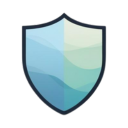
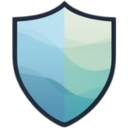
v1.5.0 Release: Image management improvements
- Added image reset functionality in manager
- Implemented better default image handling
- Updated blocked page messaging
- Improved UI for image upload section
- Standardized styling across Chrome/Firefox
- Updated icon configuration for Firefox

diff --git a/chrome/manager.js b/chrome/manager.js
@@ -1,12 +1,16 @@
 // Focus Guard Manager Script
 // Handles the full management interface
 
+// Default image path
+const DEFAULT_IMAGE_PATH = "images/default-blocked.png"
+
 // DOM elements
 const domainInput = document.getElementById("domainInput")
 const addDomainBtn = document.getElementById("addDomain")
 const domainList = document.getElementById("domainList")
 const imageUpload = document.getElementById("imageUpload")
 const imagePreview = document.getElementById("imagePreview")
+const resetImageBtn = document.getElementById("resetImage")
 
 // Check if chrome is defined, if not, mock it for development/testing
 if (typeof chrome === "undefined") {
@@ -42,6 +46,13 @@ if (typeof chrome === "undefined") {
           // Mock implementation for setting data in local storage
           if (items.blockedImage) {
             localStorage.setItem("blockedImage", items.blockedImage)
+          }
+          callback()
+        },
+        remove: (keys, callback) => {
+          // Mock implementation for removing data from local storage
+          if (keys.includes("blockedImage")) {
+            localStorage.removeItem("blockedImage")
           }
           callback()
         },
@@ -87,6 +98,8 @@ function loadImage() {
   chrome.storage.local.get(["blockedImage"], (result) => {
     if (result.blockedImage) {
       imagePreview.src = result.blockedImage
+    } else {
+      imagePreview.src = DEFAULT_IMAGE_PATH
     }
   })
 }
@@ -149,6 +162,15 @@ imageUpload.addEventListener("change", (e) => {
     }
     reader.readAsDataURL(file)
   }
+})
+
+// Reset image to default
+resetImageBtn.addEventListener("click", () => {
+  imagePreview.src = DEFAULT_IMAGE_PATH
+  chrome.storage.local.remove(["blockedImage"], () => {
+    // Optional: Show feedback that image was reset
+    console.log("Image reset to default")
+  })
 })
 
 // Simple image compression

diff --git a/firefox/manager.js b/firefox/manager.js
@@ -4,12 +4,16 @@
 // Declare browser
 const browser = window.browser || window.chrome
 
+// Default image path
+const DEFAULT_IMAGE_PATH = "images/default-blocked.png"
+
 // DOM elements
 const domainInput = document.getElementById("domainInput")
 const addDomainBtn = document.getElementById("addDomain")
 const domainList = document.getElementById("domainList")
 const imageUpload = document.getElementById("imageUpload")
 const imagePreview = document.getElementById("imagePreview")
+const resetImageBtn = document.getElementById("resetImage")
 
 // Load domains
 function loadDomains() {
@@ -48,6 +52,8 @@ function loadImage() {
   browser.storage.local.get(["blockedImage"], (result) => {
     if (result.blockedImage) {
       imagePreview.src = result.blockedImage
+    } else {
+      imagePreview.src = DEFAULT_IMAGE_PATH
     }
   })
 }
@@ -110,6 +116,15 @@ imageUpload.addEventListener("change", (e) => {
     }
     reader.readAsDataURL(file)
   }
+})
+
+// Reset image to default
+resetImageBtn.addEventListener("click", () => {
+  imagePreview.src = DEFAULT_IMAGE_PATH
+  browser.storage.local.remove(["blockedImage"], () => {
+    // Optional: Show feedback that image was reset
+    console.log("Image reset to default")
+  })
 })
 
 // Simple image compression

diff --git a/chrome/styles.css b/chrome/styles.css
@@ -265,21 +265,54 @@ button:active {
   gap: 16px;
 }
 
+.image-actions {
+  display: flex;
+  gap: 12px;
+  justify-content: center;
+  flex-wrap: wrap;
+}
+
 .image-upload-label {
   display: inline-block;
   padding: 10px 16px;
-  background: var(--primary);
-  color: white;
   border-radius: 6px;
   cursor: pointer;
   font-weight: 500;
   transition: background-color 0.2s;
   text-align: center;
-  max-width: 200px;
+  min-width: 160px;
 }
 
-.image-upload-label:hover {
+.image-upload-label.primary-action {
+  background: var(--primary);
+  color: white;
+}
+
+.image-upload-label.primary-action:hover {
   background: var(--primary-hover);
+}
+
+.image-upload-label.secondary-action {
+  background: transparent;
+  color: var(--text);
+  border: 1px solid var(--border);
+}
+
+.image-upload-label.secondary-action:hover {
+  background: var(--background-alt);
+}
+
+.reset-image-btn {
+  background: transparent;
+  color: var(--text);
+  border: 1px solid var(--border);
+  min-width: 160px;
+  font-weight: 500;
+  padding: 10px 16px;
+}
+
+.reset-image-btn:hover {
+  background: var(--background-alt);
 }
 
 #imageUpload {

diff --git a/firefox/styles.css b/firefox/styles.css
@@ -265,21 +265,54 @@ button:active {
   gap: 16px;
 }
 
+.image-actions {
+  display: flex;
+  gap: 12px;
+  justify-content: center;
+  flex-wrap: wrap;
+}
+
 .image-upload-label {
   display: inline-block;
   padding: 10px 16px;
-  background: var(--primary);
-  color: white;
   border-radius: 6px;
   cursor: pointer;
   font-weight: 500;
   transition: background-color 0.2s;
   text-align: center;
-  max-width: 200px;
+  min-width: 160px;
 }
 
-.image-upload-label:hover {
+.image-upload-label.primary-action {
+  background: var(--primary);
+  color: white;
+}
+
+.image-upload-label.primary-action:hover {
   background: var(--primary-hover);
+}
+
+.image-upload-label.secondary-action {
+  background: transparent;
+  color: var(--text);
+  border: 1px solid var(--border);
+}
+
+.image-upload-label.secondary-action:hover {
+  background: var(--background-alt);
+}
+
+.reset-image-btn {
+  background: transparent;
+  color: var(--text);
+  border: 1px solid var(--border);
+  min-width: 160px;
+  font-weight: 500;
+  padding: 10px 16px;
+}
+
+.reset-image-btn:hover {
+  background: var(--background-alt);
 }
 
 #imageUpload {

diff --git a/chrome/blocked.html b/chrome/blocked.html
@@ -7,7 +7,7 @@
 <body>
   <div class="blocked-container blocked-page">
     <h1 class="blocked-title">Focus Protected</h1>
-    <p class="blocked-message">This site has been blocked to help you stay focused.</p>
+    <p class="blocked-message">This site is part of your blocklist,<br>a step toward your goals</p>
     
     <div class="blocked-image">
       <img id="blockedImage" src="images/default-blocked.png" alt="Focus reminder">
@@ -16,9 +16,7 @@
     <div class="blocked-url-display">
       Blocked URL: <span id="originalUrl"></span>
     </div>
-    
-    <p>This interruption helps maintain your productivity flow.</p>
-    
+        
     <p class="blocked-footer">To manage blocked sites, click the Focus Guard icon in your toolbar.</p>
   </div>
   <script src="blocked.js"></script>

diff --git a/chrome/manager.html b/chrome/manager.html
@@ -27,9 +27,15 @@
       <p>This image will be displayed when you try to access a blocked site.</p>
       
       <div class="image-upload-container">
-        <label for="imageUpload" class="image-upload-label">
-          Upload Custom Image
-        </label>
+        <div class="image-actions">
+          <label for="imageUpload" class="image-upload-label primary-action">
+            Upload Custom Image
+          </label>
+          <label id="resetImage" class="image-upload-label secondary-action">
+            Reset to Default
+          </label>
+        </div>
+        
         <input type="file" id="imageUpload" accept="image/*">
         
         <div class="image-preview">

diff --git a/firefox/manager.html b/firefox/manager.html
@@ -27,9 +27,15 @@
       <p>This image will be displayed when you try to access a blocked site.</p>
       
       <div class="image-upload-container">
-        <label for="imageUpload" class="image-upload-label">
-          Upload Custom Image
-        </label>
+        <div class="image-actions">
+          <label for="imageUpload" class="image-upload-label primary-action">
+            Upload Custom Image
+          </label>
+          <label id="resetImage" class="image-upload-label secondary-action">
+            Reset to Default
+          </label>
+        </div>
+        
         <input type="file" id="imageUpload" accept="image/*">
         
         <div class="image-preview">

diff --git a/firefox/blocked.html b/firefox/blocked.html
@@ -7,7 +7,7 @@
 <body>
   <div class="blocked-container blocked-page">
     <h1 class="blocked-title">Focus Protected</h1>
-    <p class="blocked-message">This site has been blocked to help you stay focused.</p>
+    <p class="blocked-message">This site is part of your blocklist,<br>a step toward your goals</p>
     
     <div class="blocked-image">
       <img id="blockedImage" src="images/default-blocked.png" alt="Focus reminder">
